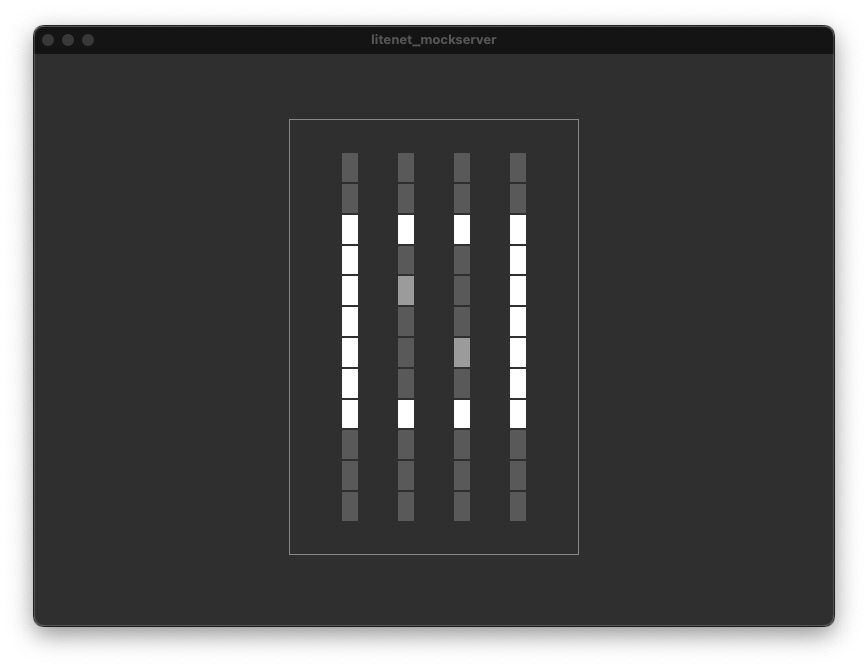
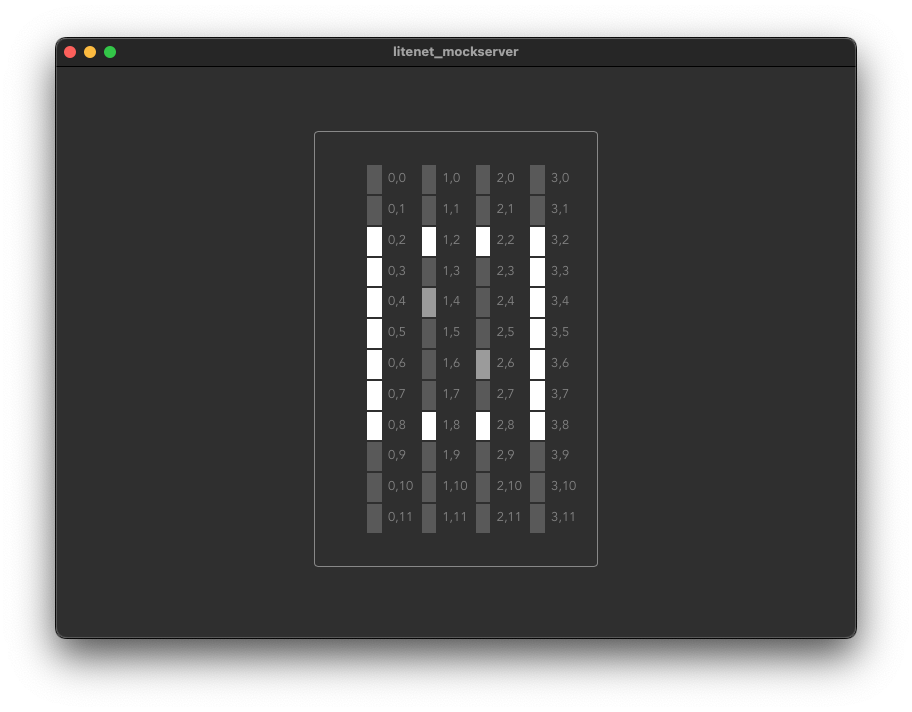
feat: show coords of luminaires on GUI

Changed region(s): [[0.0311, 0.0299, 0.9954, 0.9581], [0.3733, 0.2096, 0.6221, 0.7784]]

diff --git a/src/lib/Room.svelte b/src/lib/Room.svelte
@@ -3,11 +3,12 @@
 </script>
 
 <style lang="scss">
-  .lm-room { display: flex; flex-flow: row nowrap; padding: 2rem; border: 1px solid #888;
+  .lm-room { display: flex; flex-flow: row nowrap; padding: 2rem; border: 1px solid #888; border-radius: 4px;
     .lm-col { display: flex; flex-flow: column nowrap; padding: 0 20px;
       .lm-cell { display: flex; flex-flow: row nowrap; justify-content: center; margin: 1px 0;
-        .lm-luminaire { display: inline-block; width: 1em; height: 1.8em;
-          transition: background-color ease-in-out 200ms;
+        .lm-luminaire { display: inline-block; width: 0.9rem; height: 1.8rem;
+           transition: background-color ease-in-out 200ms;
+          .lm-coords { position: relative; display: inline-block; left: 1.3rem; font-size: 0.8em; color: rgba(255,255,255,0.4); }
         }
       }
     }
@@ -19,15 +20,17 @@
   <div>loading</div>
 {:then}
   <div class="lm-room">
-  {#each $room as cols}
+  {#each $room as cols, idxCol}
     <div class="lm-col">
-      {#each cols as luminaire}
+      {#each cols as luminaire, idxRow}
         <div class="lm-cell">
           <div class="lm-luminaire"
                data-name="{luminaire.name}"
                style="background-color: rgba(255, 255, 255, {
                   ($luminaires.get(luminaire.name).level / 100) * 0.8 + 0.2
-               })"></div>
+               })">
+            <span class="lm-coords">{idxCol},{idxRow}</span>
+          </div>
         </div>
       {/each}
     </div>
